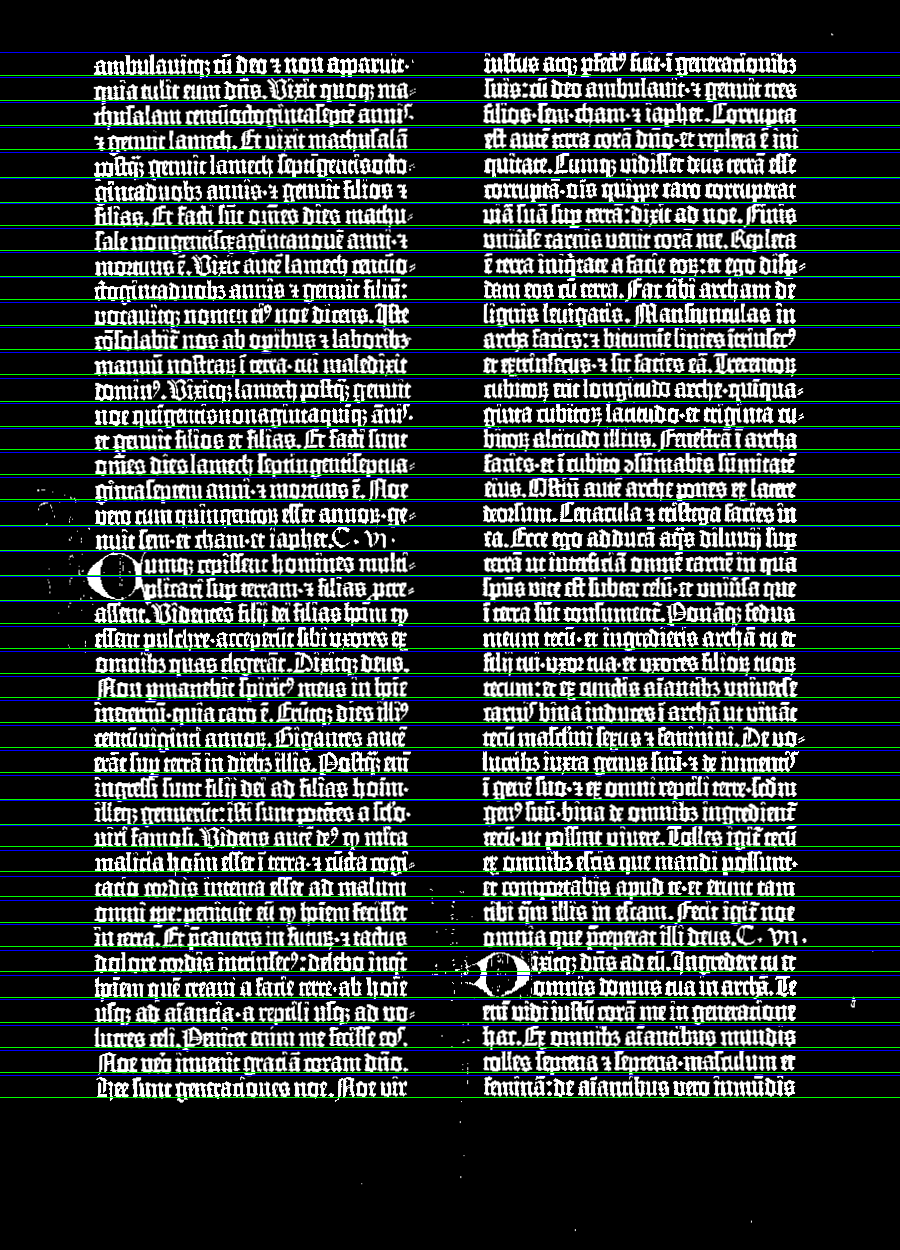
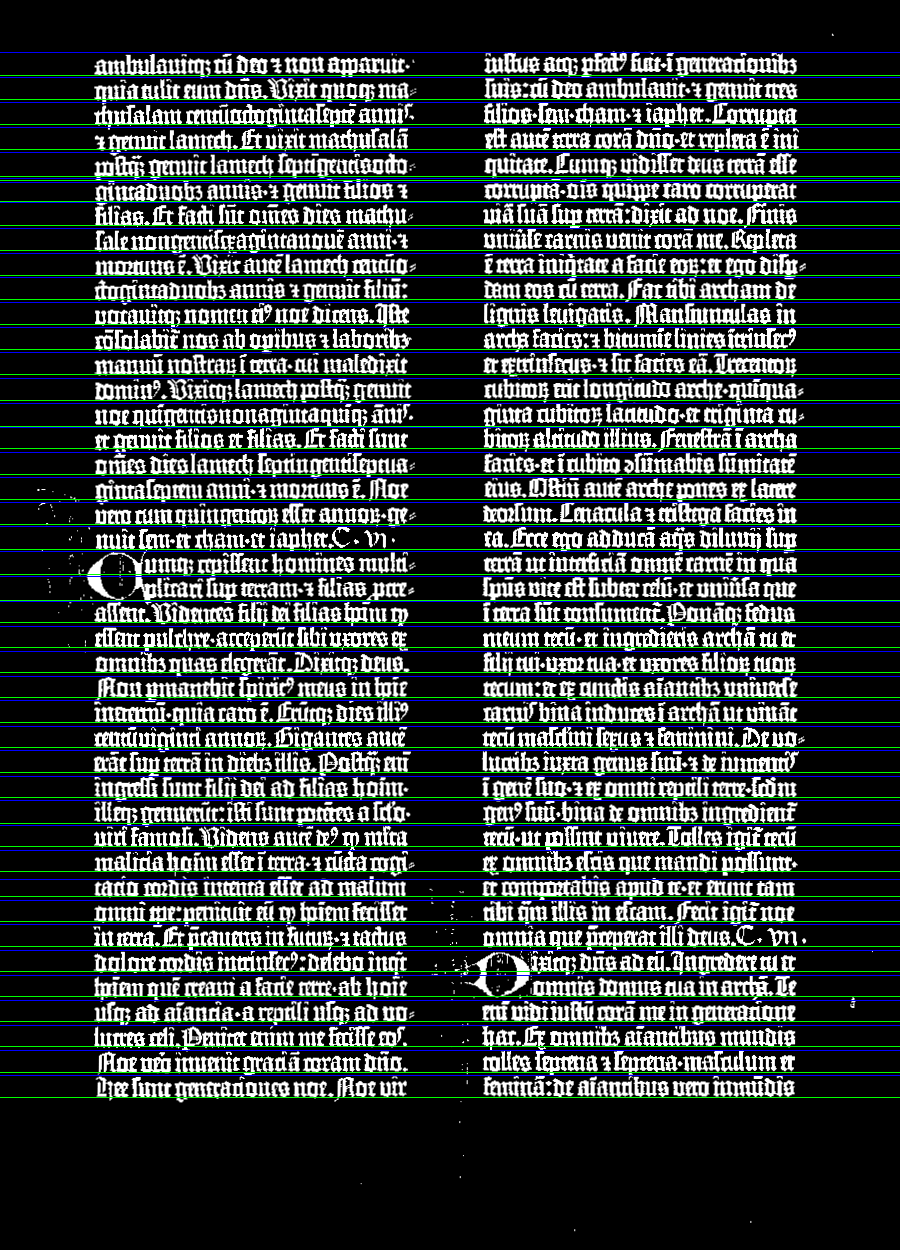
Salvato in json il dizionario del ground truth e nuove soglie

Changed region(s): [[0.0, 0.0312, 1.0, 0.8736]]

diff --git a/binarizer.py b/binarizer.py
@@ -80,7 +80,8 @@ class Binarizer:
 
     def linesCropping(self, image_path, nPage, firstColumn, secondColumn, dictionary):
 
-        user = input('Inserire utente (scelte possibili: Federico, Franceso): ')
+        #user = input('Inserire utente (scelte possibili: Federico, Francesco): ')
+        user = ''
 
         img = cv.imread(image_path)
         cropped = cv.imread('cropped.png')
@@ -115,19 +116,28 @@ class Binarizer:
         if nPage is 15:
             th = 20
         if nPage is 16:
-            th = 9
-        if nPage is 17:
+            th = 13
+        if nPage is 18:
             th = 9
         if nPage is 20:
-            th = 11
+            th = 7
         if nPage is 21:
             th = 14
         if nPage is 23:
-            th = 14
+            th = 11
         if nPage is 25:
-            th = 17
+            th = 15
         if nPage is 26:
             th = 11
+        if nPage is 27:
+            th = 5
+        if nPage is 30:
+            th = 9
+        if nPage is 31:
+            th = 14
+        if nPage is 33:
+            th = 8
+
 
         # Limito il numero di righe da poter fare in verticale
         numLines = 0
@@ -168,13 +178,6 @@ class Binarizer:
             columns.append(440)
             columns.append(450)
             columns.append(840)
-
-        '''
-                for x in columns:
-            if numLines < maxNumLines:
-                cv.line(rotated, (x, 0), (x, H), (0, 0, 255), 1)
-                numLines += 1
-        '''
 
         leftColumn = rotated[:, columns[0]:columns[1]]
         rightColumn = rotated[:, columns[2]:columns[3]]
@@ -519,7 +522,7 @@ class Binarizer:
         cv.line(threshed, pt2, pt3, color=(0, 255, 0), thickness=2)
         cv.line(threshed, pt3, pt1, color=(0, 255, 0), thickness=2)
 
-        resized = cv.resize(threshed, (int(900*(13/25)), int(1250*(13/25))))
+        #resized = cv.resize(threshed, (int(900*(13/25)), int(1250*(13/25))))
         #cv.imshow('page', resized)
         #cv.waitKey(0)
 
@@ -535,12 +538,14 @@ class Binarizer:
         if bottomLeftX > topLeftX:
             rotationAngle = - rotationAngle
 
+        '''
         print('topLeft: ' + str(topLeftX) + ' ' + str(topLeftY))
         print('bottomLeft: ' + str(bottomLeftX) + ' ' + str(bottomLeftY))
         print('d_pt1pt2: ' + str(d_pt1pt2))
         print('d_pt1pt3: ' + str(d_pt1pt3))
         print('d_pt2pt3: ' + str(d_pt2pt3))
         print('rotationAngle: ' + str(rotationAngle))
+        '''
 
         os.remove('temp/{img_name}.png'.format(img_name=img_path))
 

diff --git a/stringUtils.py b/stringUtils.py
@@ -1,3 +1,5 @@
+import json
+
 # Dato un txt in ingresso, lo legge e crea un dizionario che ha come chiavi il nome della pagina con il numero di
 # colonna (0 o 1), e come valore un array di interi ordinato con il testo che indica la quantita' di parole per ogni
 # riga
@@ -10,12 +12,12 @@ def getWordsCounterDict(lines):
 
         # Trovo nel txt le righe speciali di inizio paragrafo, saranno chiave nel dizionario
         if lines[i][0] == "_":
-            columnsLengthDict[lines[i][:-1]] = []
+            columnsLengthDict[lines[i][:-2]] = []
 
             # Per ogni riga adesso conto quante parole ci sono e me lo salvo
             j = i + 1
             while j < len(lines) and lines[j][0] is not "_":
-                columnsLengthDict[lines[i][:-1]].append(wordCounter(lines[j]))
+                columnsLengthDict[lines[i][:-2]].append(wordCounter(lines[j]))
                 j += 1
 
             # per risparmiare cicli adesso riparto dal nuovo paragrafo
@@ -33,3 +35,13 @@ def wordCounter(line):
             words += 1
 
     return words
+
+# Leggo il ground truth e me lo salvo in un file come dizionario json, per non stare a rileggerlo ad ogni esecuzione
+
+groundTruth = open("genesis1-20.txt", "r")
+lines = groundTruth.readlines()
+
+dictionary = getWordsCounterDict(lines)
+
+with open('groundTruthDictionary.json', 'w') as fp:
+    json.dump(dictionary, fp)

diff --git a/main.py b/main.py
@@ -1,7 +1,7 @@
 import binarizer as bin
 import cv2 as cv
 import stringUtils
-
+import json
 
 bible = 'Muenchen'
 binar = bin.Binarizer(bible)
@@ -12,19 +12,19 @@ binar = bin.Binarizer(bible)
 cropped = cv.imread('cropped.png')
 binar.calimero(img, cropped)"""
 
-groundTruth = open("genesis1-20.txt", "r")
-lines = groundTruth.readlines()
-
-dictionary = stringUtils.getWordsCounterDict(lines)
+with open('groundTruthDictionary.json') as groundTruth:
+    dictionary = json.load(groundTruth)
 
 # Problemi patologici su pag14, cattiva segmentazione su pag31
 
-numPage = 18
+
+
+#for numPage in range(14, 33):
+
+numPage = 33
 
 binar.linesCropping('GenesisPages/old/Muenchen/Gut-0{x}.jpg'.format(x=numPage),
                     numPage,
                     '_P{x}_C0'.format(x=(numPage - 14)),
                     '_P{x}_C1'.format(x=(numPage - 14)),
                     dictionary)
-
-
